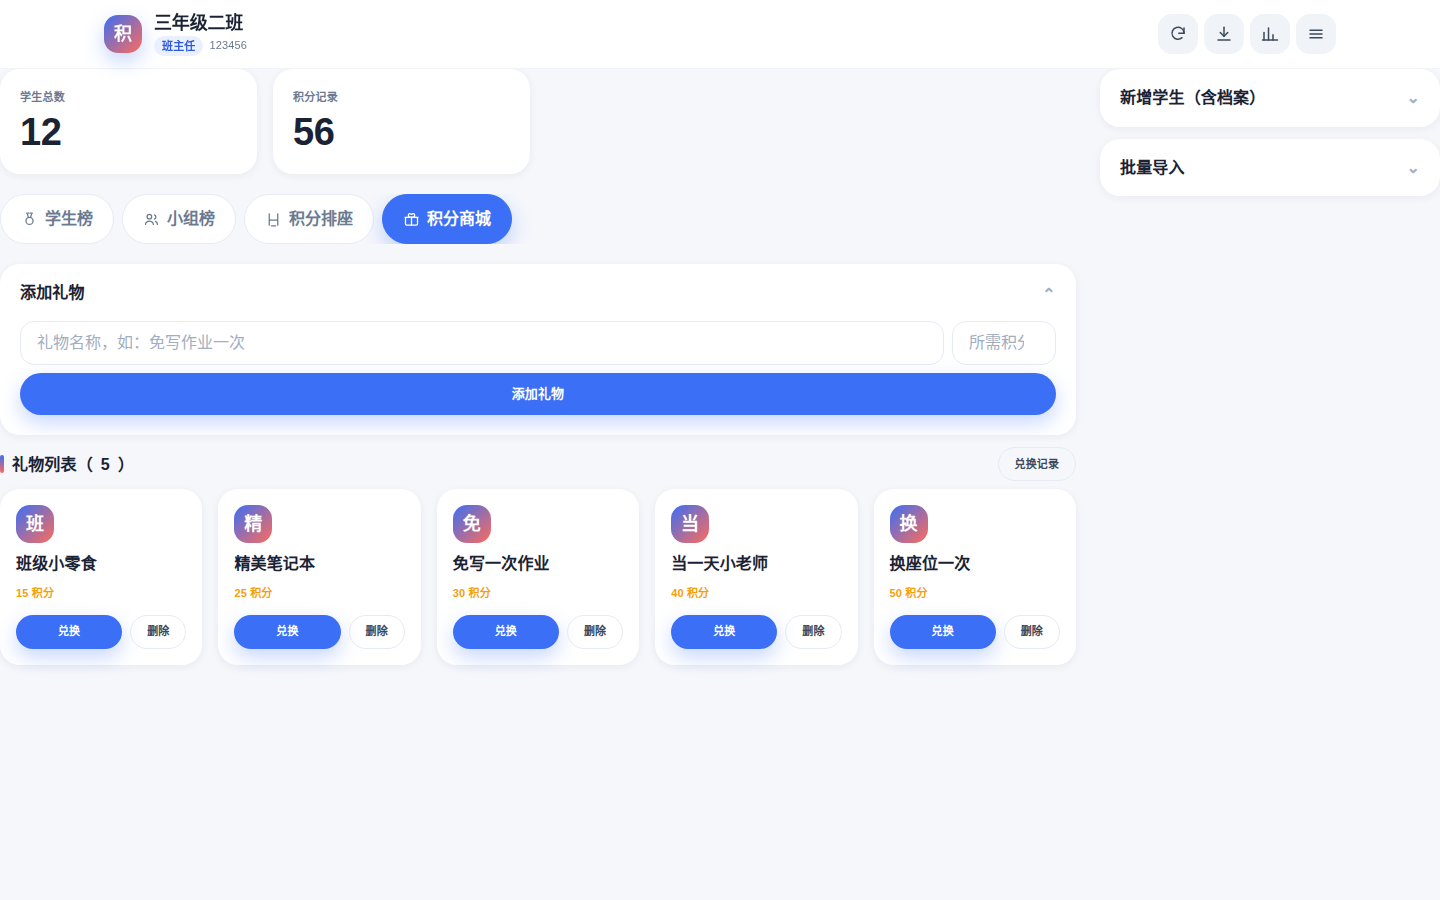
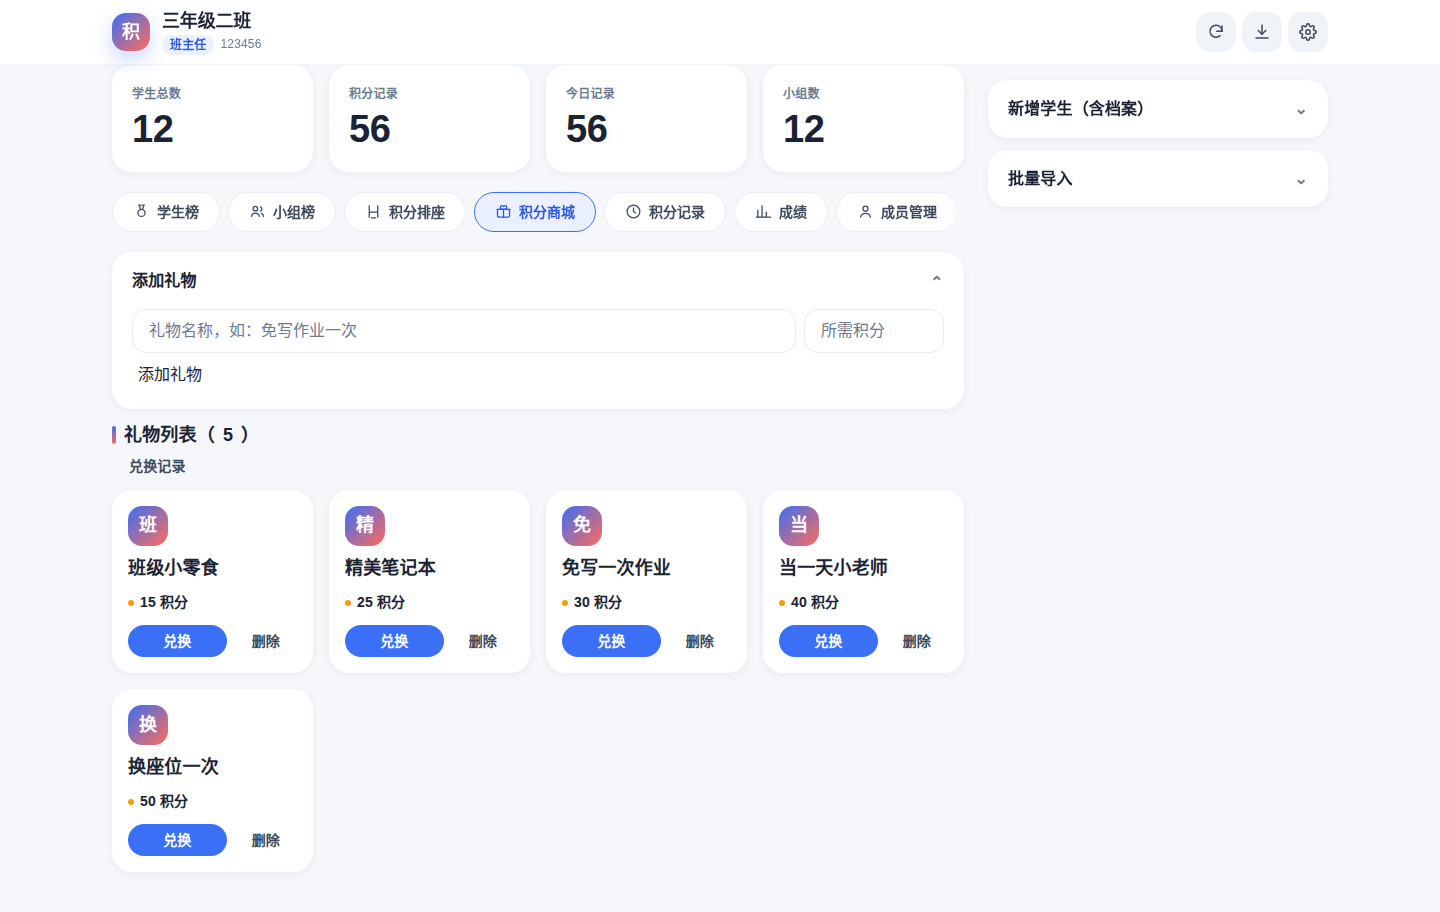
docs: 基于新 UI 重新渲染全部截图（双端 13 视图 + 4K/8K 总览）
- 同步远端 be040968 的 UI 重构（design-system.css / index.html / class-app.js 等）
- 截图脚本 shoot.py 适配新导航（成绩入口 data-view=scores）
- 重渲 26 张界面原图（desktop/mobile 各 13）
- 重生成 overview：双端 8K(7680) + 桌面 4K + 手机 4K

diff --git a/scripts/shoot.py b/scripts/shoot.py
@@ -79,8 +79,8 @@ async def owner_flow(page, label):
     await page.wait_for_timeout(PAGE_WAIT)
     await snap(page, f"{OUT}/{label}/{NAMES[5]}.png")
 
-    # 成绩分析
-    await page.locator("#btnScores").click(timeout=4000)
+    # 成绩分析（点击「成绩」视图标签）
+    await page.locator('[data-view="scores"]').click(timeout=4000)
     await page.wait_for_timeout(1000)
     await snap(page, f"{OUT}/{label}/{NAMES[6]}.png")
 
